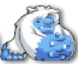
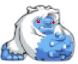
Ajout IA yeti et ralentissement de sid quand touché

diff --git a/src/main/java/fr/mbouklikha/dev/sae_glacium/modeles/acteur/Yeti.java b/src/main/java/fr/mbouklikha/dev/sae_glacium/modeles/acteur/Yeti.java
@@ -3,7 +3,6 @@ package fr.mbouklikha.dev.sae_glacium.modeles.acteur;
 import fr.mbouklikha.dev.sae_glacium.modeles.monde.Environnement;
 import javafx.beans.property.SimpleStringProperty;
 import javafx.beans.property.StringProperty;
-import javafx.scene.input.KeyCode;
 
 import java.util.Set;
 
@@ -13,12 +12,17 @@ public class Yeti extends Acteur {
 
     private static final double GRAVITE = 0.4;
     private static final int HAUTEUR_YETI = 64;
-    private static final int VITESSE_X = 4;
+    private static final int VITESSE_X = 2;
 
     private double vitesseY = 0;
+    private boolean frappeEnCours = false;
 
-    public Yeti(Environnement env) {
-        super("Yeti", 10, 150, 100, env);
+    private Sid sid;
+
+    // Constructeur modifié avec Sid
+    public Yeti(Environnement env, Sid sid) {
+        super("Yeti", 10, 800, 250, env);
+        this.sid = sid;
     }
 
     public StringProperty getDirection() {
@@ -30,22 +34,51 @@ public class Yeti extends Acteur {
     }
 
     @Override
-    public void deplacer(Set<KeyCode> touches) {
-        boolean aBouge = false;
+    public void deplacer(Set<javafx.scene.input.KeyCode> touches) {
+        // Pas contrôlé par clavier = méthode vide
+    }
 
-        if (touches.contains(KeyCode.RIGHT)) {
-            setX(getX() + VITESSE_X);
-            setDirection("droite");
-            aBouge = true;
+    public boolean isFrappeEnCours() {
+        return frappeEnCours;
+    }
+
+    public void suivreEtFrapperSid() {
+        if (sid == null || !sid.estVivant()) {
+            setDirection("immobile");
+            frappeEnCours = false;
+            return;
         }
 
-        if (touches.contains(KeyCode.LEFT)) {
-            setX(getX() - VITESSE_X);
-            setDirection("gauche");
-            aBouge = true;
+        int dx = sid.getX() - getX();
+        int dy = sid.getY() - getY();
+
+        // Si pas à la même hauteur = immobile
+        if (Math.abs(dy) > 50) {
+            frappeEnCours = false;
+            setDirection("immobile");
+            return;
         }
 
-        if (!aBouge) {
+        // Si proche à 20 pixels = frappe
+        if (Math.abs(dx) <= 20) {
+            frappeEnCours = true;
+            setDirection(dx > 0 ? "droite" : "gauche");
+            sid.estRalenti = true;
+        }
+        // Si dans une zone de suivi (moins de 200 pixels), suivre
+        else if (Math.abs(dx) <= 180) {
+            frappeEnCours = false;
+            if (dx > 0) {
+                setX(getX() + VITESSE_X);
+                setDirection("droite");
+            } else {
+                setX(getX() - VITESSE_X);
+                setDirection("gauche");
+            }
+        }
+        // Sinon immobile
+        else {
+            frappeEnCours = false;
             setDirection("immobile");
         }
     }
@@ -58,13 +91,12 @@ public class Yeti extends Acteur {
         int caseX = getX() / tailleBloc;
         int caseY = (newY + HAUTEUR_YETI) / tailleBloc;
 
-        // Sécurité : vérifier que les coordonnées sont valides
         if (caseY >= map.length || caseX >= map[0].length || caseX < 0) {
-            setY(newY); // Laisser tomber si hors map
+            setY(newY);
             return;
         }
 
-        if (map[caseY][caseX] == 1) { // Bloc solide en dessous
+        if (map[caseY][caseX] == 1) {
             vitesseY = 0;
             setY(caseY * tailleBloc - HAUTEUR_YETI);
         } else {

diff --git a/src/main/java/fr/mbouklikha/dev/sae_glacium/vues/acteur/YetiVue.java b/src/main/java/fr/mbouklikha/dev/sae_glacium/vues/acteur/YetiVue.java
@@ -1,0 +1,87 @@
+package fr.mbouklikha.dev.sae_glacium.vues.acteur;
+
+import fr.mbouklikha.dev.sae_glacium.modeles.acteur.Yeti;
+import javafx.animation.AnimationTimer;
+import javafx.scene.image.Image;
+import javafx.scene.image.ImageView;
+import javafx.scene.layout.Pane;
+
+import java.util.Objects;
+
+public class YetiVue {
+
+    private final Yeti yeti;
+    private final ImageView imageView;
+
+    private final Image imageDroite;
+    private final Image imageGauche;
+    private final Image imageBase;
+    private final Image imageFrappeDroite;
+    private final Image imageFrappeGauche;
+
+    public YetiVue(Yeti yeti, Pane zoneJeu) {
+        this.yeti = yeti;
+
+        imageDroite = new Image(Objects.requireNonNull(getClass().getResourceAsStream(
+                "/fr/mbouklikha/dev/sae_glacium/images/YETI/D/H2.png")));
+        imageGauche = new Image(Objects.requireNonNull(getClass().getResourceAsStream(
+                "/fr/mbouklikha/dev/sae_glacium/images/YETI/G/H2.png")));
+        imageBase = new Image(Objects.requireNonNull(getClass().getResourceAsStream(
+                "/fr/mbouklikha/dev/sae_glacium/images/YETI/YETI_IMMOBILE.png")));
+
+        imageFrappeDroite = new Image(Objects.requireNonNull(getClass().getResourceAsStream(
+                "/fr/mbouklikha/dev/sae_glacium/images/YETI/D/H3.png")));
+        imageFrappeGauche = new Image(Objects.requireNonNull(getClass().getResourceAsStream(
+                "/fr/mbouklikha/dev/sae_glacium/images/YETI/G/H3.png")));
+
+        imageView = new ImageView(imageBase);
+        imageView.setFitWidth(64);
+        imageView.setFitHeight(64);
+
+        imageView.xProperty().bind(yeti.getXProperty().asObject());
+        imageView.yProperty().bind(yeti.getYProperty().asObject());
+
+        // Met à jour l’image à chaque changement de direction ou frappe
+        yeti.getDirection().addListener((obs, oldDir, newDir) -> updateImage());
+
+        // AnimationTimer pour mise à jour continue (ex: frappe)
+        new AnimationTimer() {
+            @Override
+            public void handle(long now) {
+                updateImage();
+            }
+        }.start();
+
+        zoneJeu.getChildren().add(imageView);
+    }
+
+    private void updateImage() {
+        if (yeti.isFrappeEnCours()) {
+            switch (yeti.getDirection().get()) {
+                case "droite":
+                    imageView.setImage(imageFrappeDroite);
+                    break;
+                case "gauche":
+                    imageView.setImage(imageFrappeGauche);
+                    break;
+                default:
+                    imageView.setImage(imageBase);
+            }
+        } else {
+            switch (yeti.getDirection().get()) {
+                case "droite":
+                    imageView.setImage(imageDroite);
+                    break;
+                case "gauche":
+                    imageView.setImage(imageGauche);
+                    break;
+                default:
+                    imageView.setImage(imageBase);
+            }
+        }
+    }
+
+    public ImageView getImageView() {
+        return imageView;
+    }
+}

diff --git a/src/main/java/fr/mbouklikha/dev/sae_glacium/controller/Controller.java b/src/main/java/fr/mbouklikha/dev/sae_glacium/controller/Controller.java
@@ -1,10 +1,10 @@
 package fr.mbouklikha.dev.sae_glacium.controller;
 
 import fr.mbouklikha.dev.sae_glacium.modeles.acteur.Sid;
+import fr.mbouklikha.dev.sae_glacium.modeles.acteur.Yeti;
 import fr.mbouklikha.dev.sae_glacium.modeles.monde.Environnement;
-import fr.mbouklikha.dev.sae_glacium.modeles.monde.Terrain;
-
 import fr.mbouklikha.dev.sae_glacium.vues.acteur.SidVue;
+import fr.mbouklikha.dev.sae_glacium.vues.acteur.YetiVue;
 import fr.mbouklikha.dev.sae_glacium.vues.monde.TerrainVue;
 
 import javafx.animation.KeyFrame;
@@ -19,7 +19,6 @@ import javafx.util.Duration;
 import java.util.HashSet;
 import java.util.Set;
 
-
 public class Controller {
 
     @FXML
@@ -28,65 +27,58 @@ public class Controller {
     @FXML
     private Pane zoneJeu;
 
-
     private Timeline gameLoop;
     private Set<KeyCode> touchesActives = new HashSet<>();
-    private int temps = 0;
 
-    private  Environnement env;
+    private Environnement env;
     private Sid sid;
-
     private SidVue sidVue;
+
+    private Yeti yeti;
+    private YetiVue yetiVue;
 
     private final int TAILLE_BLOC = 32;
 
-
     @FXML
     public void initialize() {
-
-        // Création et Initialisation de l'environnement et du terrain
         this.env = new Environnement(992, 576);
-
         new TerrainVue(env.getTerrain(), tilePane);
 
-        // Création et Initialisation de Sid et SidVue
         sid = new Sid(env);
         sidVue = new SidVue(sid, zoneJeu);
 
-        // Focus sur les élements du fxml
+        yeti = new Yeti(env, sid);
+        yetiVue = new YetiVue(yeti, zoneJeu);
+
         tilePane.setFocusTraversable(false);
         zoneJeu.setFocusTraversable(true);
 
         Platform.runLater(() -> {
             zoneJeu.setOnKeyPressed(event -> touchesActives.add(event.getCode()));
             zoneJeu.setOnKeyReleased(event -> touchesActives.remove(event.getCode()));
-
             zoneJeu.requestFocus();
 
             initAnimation();
             gameLoop.play();
         });
-
     }
 
     private void initAnimation() {
         gameLoop = new Timeline();
-        temps = 0;
         gameLoop.setCycleCount(Timeline.INDEFINITE);
 
         KeyFrame keyFrame = new KeyFrame(
-                Duration.seconds(0.017), // environ 60 FPS
+                Duration.seconds(0.017), // ≈ 60 FPS
                 ev -> {
+                    yeti.appliquerGravite(env.getTerrain().getMap(), TAILLE_BLOC);
+                    yeti.suivreEtFrapperSid();
+
                     sid.deplacer(touchesActives);
-                    sid.appliquerGravite(env.getTerrain().getMap(), TAILLE_BLOC); // applique la gravité
-                    temps++;
+                    sid.appliquerGravite(env.getTerrain().getMap(), TAILLE_BLOC);
+
                 }
         );
+
         gameLoop.getKeyFrames().add(keyFrame);
     }
-
-
-
-
-
 }

diff --git a/src/main/java/fr/mbouklikha/dev/sae_glacium/modeles/acteur/Sid.java b/src/main/java/fr/mbouklikha/dev/sae_glacium/modeles/acteur/Sid.java
@@ -13,6 +13,7 @@ public class Sid extends Acteur {
     private final double GRAVITE = 0.4;
     private final double SAUT_FORCE = -8;
     private double vitesseY = 0;
+    public boolean estRalenti ;
 
     public Sid(Environnement env) {
         super("Sid", 10, 100, 100, env); // position initiale (100,100)
@@ -25,17 +26,33 @@ public class Sid extends Acteur {
     public void setDirection(String direction) {
         directionProperty.set(direction);
     }
+    private int finRalenti;
 
     // Méthodes deplacer abstract de Acteur
     @Override
     public void deplacer(Set<KeyCode> touches) {
+        if (finRalenti == 300) {
+            finRalenti = 0;
+            estRalenti = false;
+        }
         if (touches.contains(KeyCode.D)) {
-            setX(getX() + 5);
+            if (estRalenti ){
+                setX(getX() + 3);
+                finRalenti ++;
+            }else {
+                setX(getX() + 5);
+            }
+
             setDirection("droite");
         }
 
         if (touches.contains(KeyCode.Q)) {
-            setX(getX() - 5);
+            if (estRalenti){
+                setX(getX() - 3);
+                finRalenti ++;
+            }else {
+                setX(getX() - 5);
+            }
             setDirection("gauche");
         }
 

diff --git a/src/main/java/fr/mbouklikha/dev/sae_glacium/vues/acteur/SidVue.java b/src/main/java/fr/mbouklikha/dev/sae_glacium/vues/acteur/SidVue.java
@@ -18,9 +18,13 @@ public class SidVue {
 
     public SidVue(Sid sid, Pane zoneJeu) {
         this.sid = sid;
-
-        imageDroite = new Image(getClass().getResourceAsStream("/fr/mbouklikha/dev/sae_glacium/images/sid_droite.png"));
-        imageGauche = new Image(getClass().getResourceAsStream("/fr/mbouklikha/dev/sae_glacium/images/sid_gauche.png"));
+        if (sid.estRalenti) {
+            imageDroite = new Image(getClass().getResourceAsStream("/fr/mbouklikha/dev/sae_glacium/images/sid_droite_glace.png"));
+            imageGauche = new Image(getClass().getResourceAsStream("/fr/mbouklikha/dev/sae_glacium/images/sid_gauche_glace.png"));
+        } else {
+            imageDroite = new Image(getClass().getResourceAsStream("/fr/mbouklikha/dev/sae_glacium/images/sid_droite.png"));
+            imageGauche = new Image(getClass().getResourceAsStream("/fr/mbouklikha/dev/sae_glacium/images/sid_gauche.png"));
+        }
         imageBase = new Image(getClass().getResourceAsStream("/fr/mbouklikha/dev/sae_glacium/images/sid.png"));
 
         imageView = new ImageView(imageBase);

diff --git a/src/main/java/fr/mbouklikha/dev/sae_glacium/Main.java b/src/main/java/fr/mbouklikha/dev/sae_glacium/Main.java
@@ -11,7 +11,7 @@ public class Main extends Application {
     @Override
     public void start(Stage stage) throws IOException {
         FXMLLoader fxmlLoader = new FXMLLoader(Main.class.getResource("vue1.fxml"));
-        Scene scene = new Scene(fxmlLoader.load(), 1120, 640);
+        Scene scene = new Scene(fxmlLoader.  load(), 1120, 640);
         stage.setTitle("Glacium");
         stage.setScene(scene);
         stage.show();
